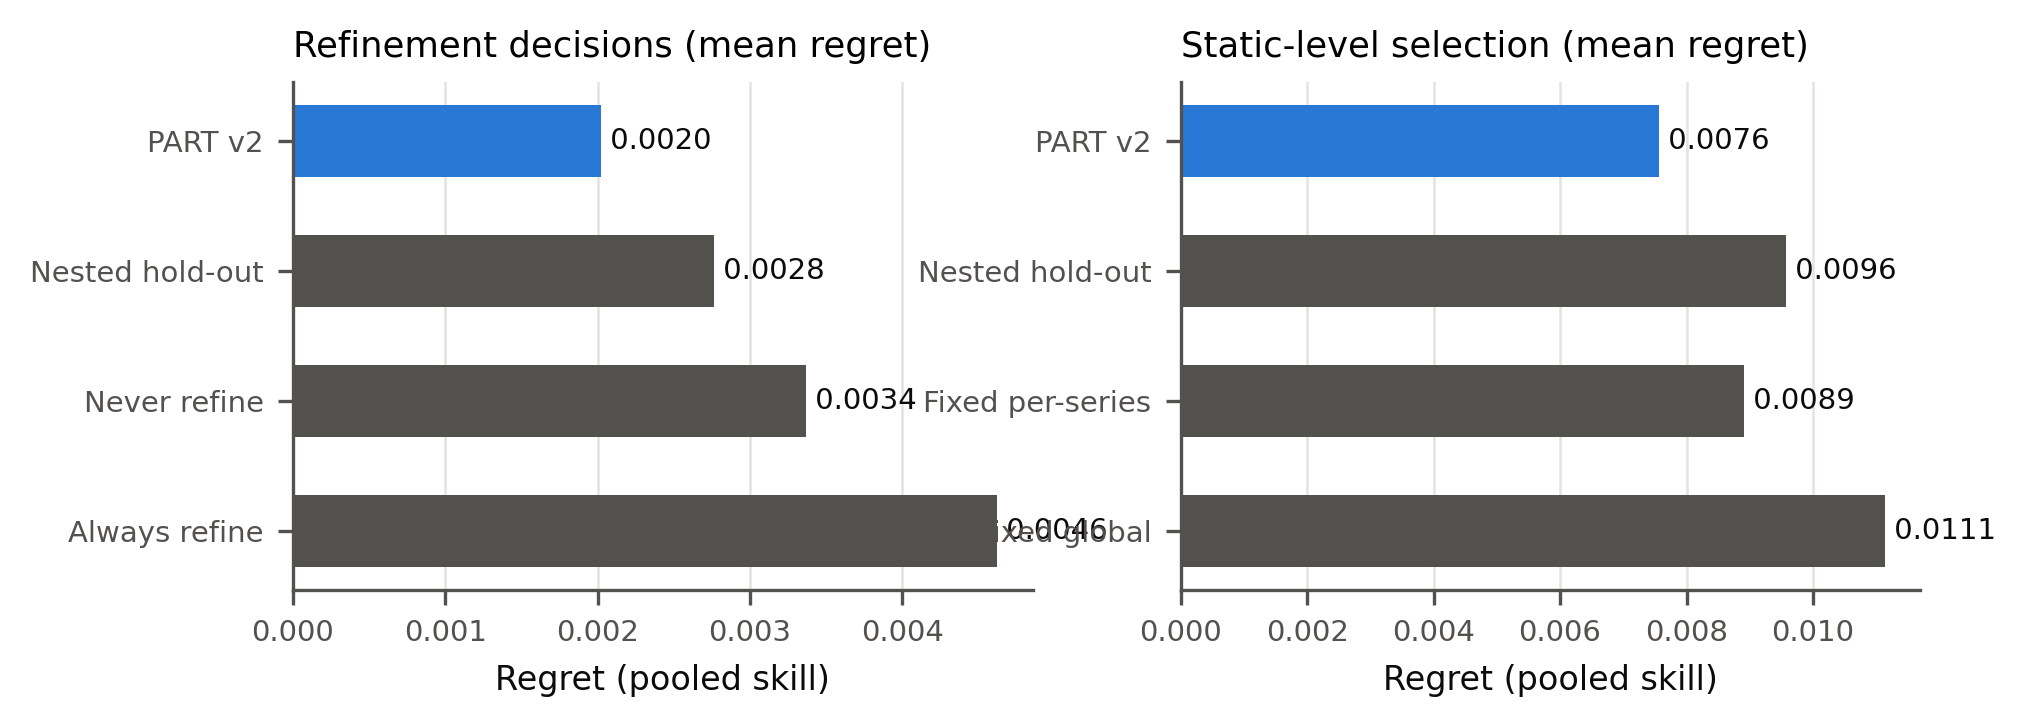
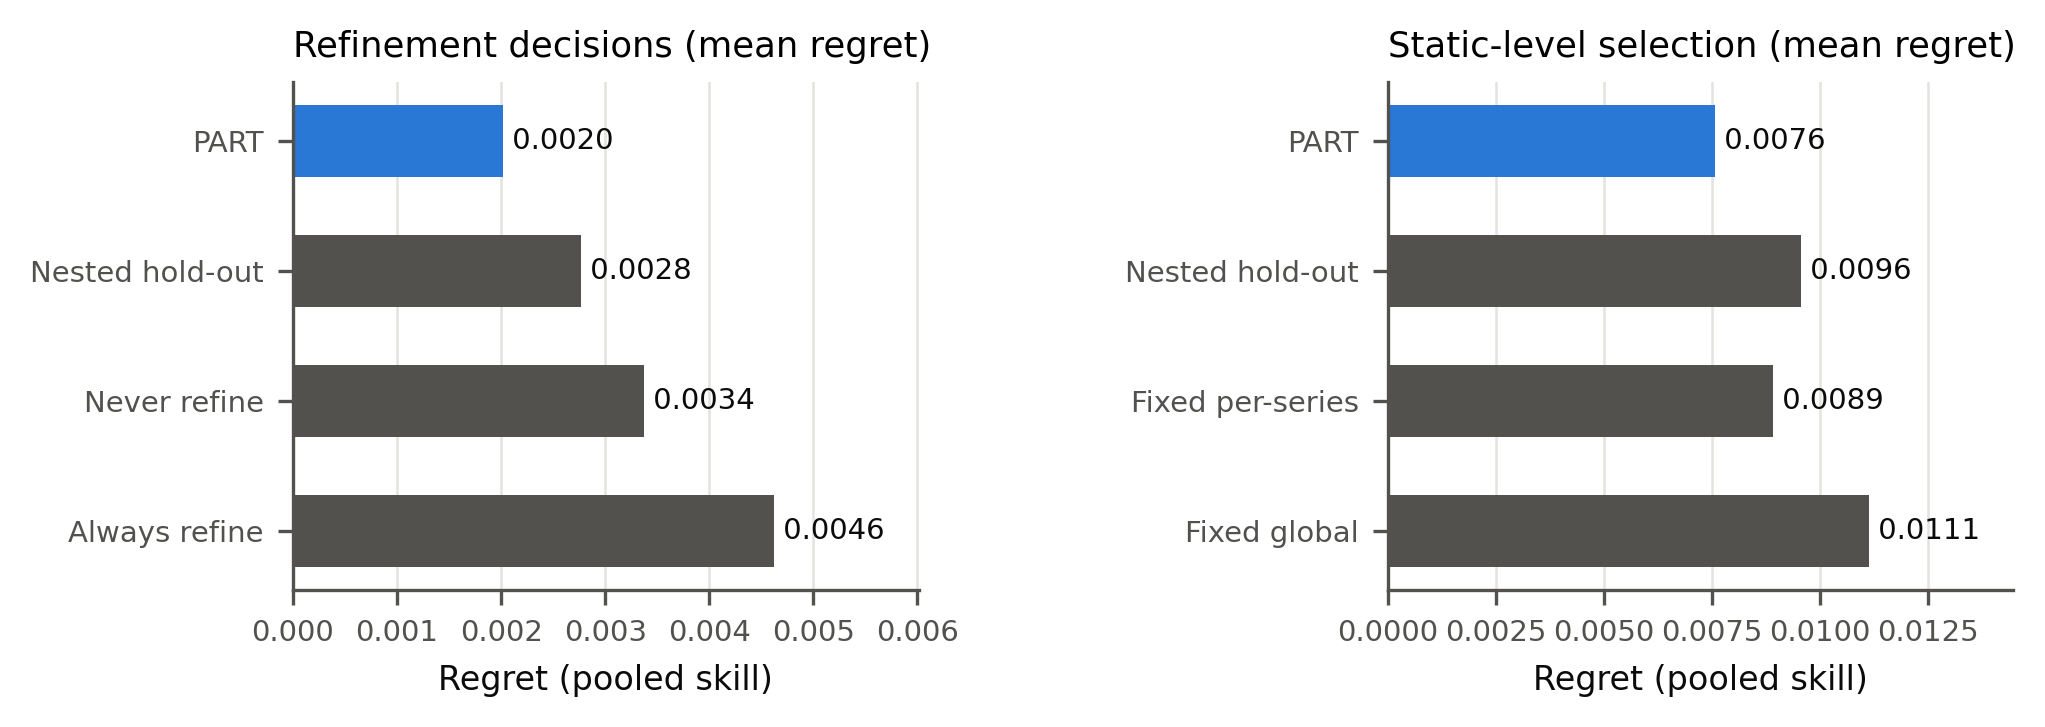
Paper scripts: per-paper author lists, pipeline diagrams, figure of the State-panel energy comparisons

diff --git a/India_Grid_Study/codes/scripts/build/b07_panel.py b/India_Grid_Study/codes/scripts/build/b07_panel.py
@@ -61,7 +61,8 @@ def main():
     reg(["dem_energy_met_gwh", "dem_energy_shortage_gwh"], "demand", "Grid-India PSP §C", "GWh", 1)
     reg(["dem_max_demand_mw", "dem_peak_shortage_mw"], "demand", "Grid-India PSP §C", "MW", 1,
         "peak shortage = shortage at the time of maximum demand")
-    reg(["dev_drawal_schedule_gwh", "dev_od_ud_gwh"], "deviation", "Grid-India PSP §C", "GWh", 1,
+    reg(["dev_drawal_schedule_gwh"], "deviation", "Grid-India PSP §C", "GWh", 1, "scheduled drawal, daily total")
+    reg(["dev_od_ud_gwh"], "deviation", "Grid-India PSP §C", "GWh", 1,
         "OD(+)/UD(−) = actual − scheduled drawal, daily net")
     reg(["dev_max_od_mw", "dev_max_ud_mw"], "deviation", "Grid-India PSP §C", "MW", 1, "max UD printed from 2023")
     P = P.sort_values(["entity", "date"]).reset_index(drop=True)

diff --git a/India_Grid_Study/data/docs/ERRATA.md b/India_Grid_Study/data/docs/ERRATA.md
@@ -1,0 +1,11 @@
+# Errata for the published data documentation (Zenodo RE-FUSED 1.0.0, 10.5281/zenodo.23194781)
+
+The data values are correct; only documentation text is affected. Corrections apply from the next Zenodo version.
+
+| Date found | File | Field | Published text | Correct text |
+|---|---|---|---|---|
+| 10 Oct 2026 | `FIELD_REGISTRY.csv` (data dictionary) | `dev_drawal_schedule_gwh` | note "OD(+)/UD(−) = actual − scheduled drawal, daily net" (copied from `dev_od_ud_gwh`) | "scheduled drawal, daily total" (Grid-India PSP section C, "Drawal Schedule"); actual drawal = this column + `dev_od_ud_gwh` |
+
+The cause was one registry call in `codes/scripts/build/b07_panel.py` that gave both columns the same note; it is fixed
+in the code (11 Oct 2026). The published `FIELD_REGISTRY.csv` is left unchanged here so that the local archive keeps
+matching the published record and its checksums.
